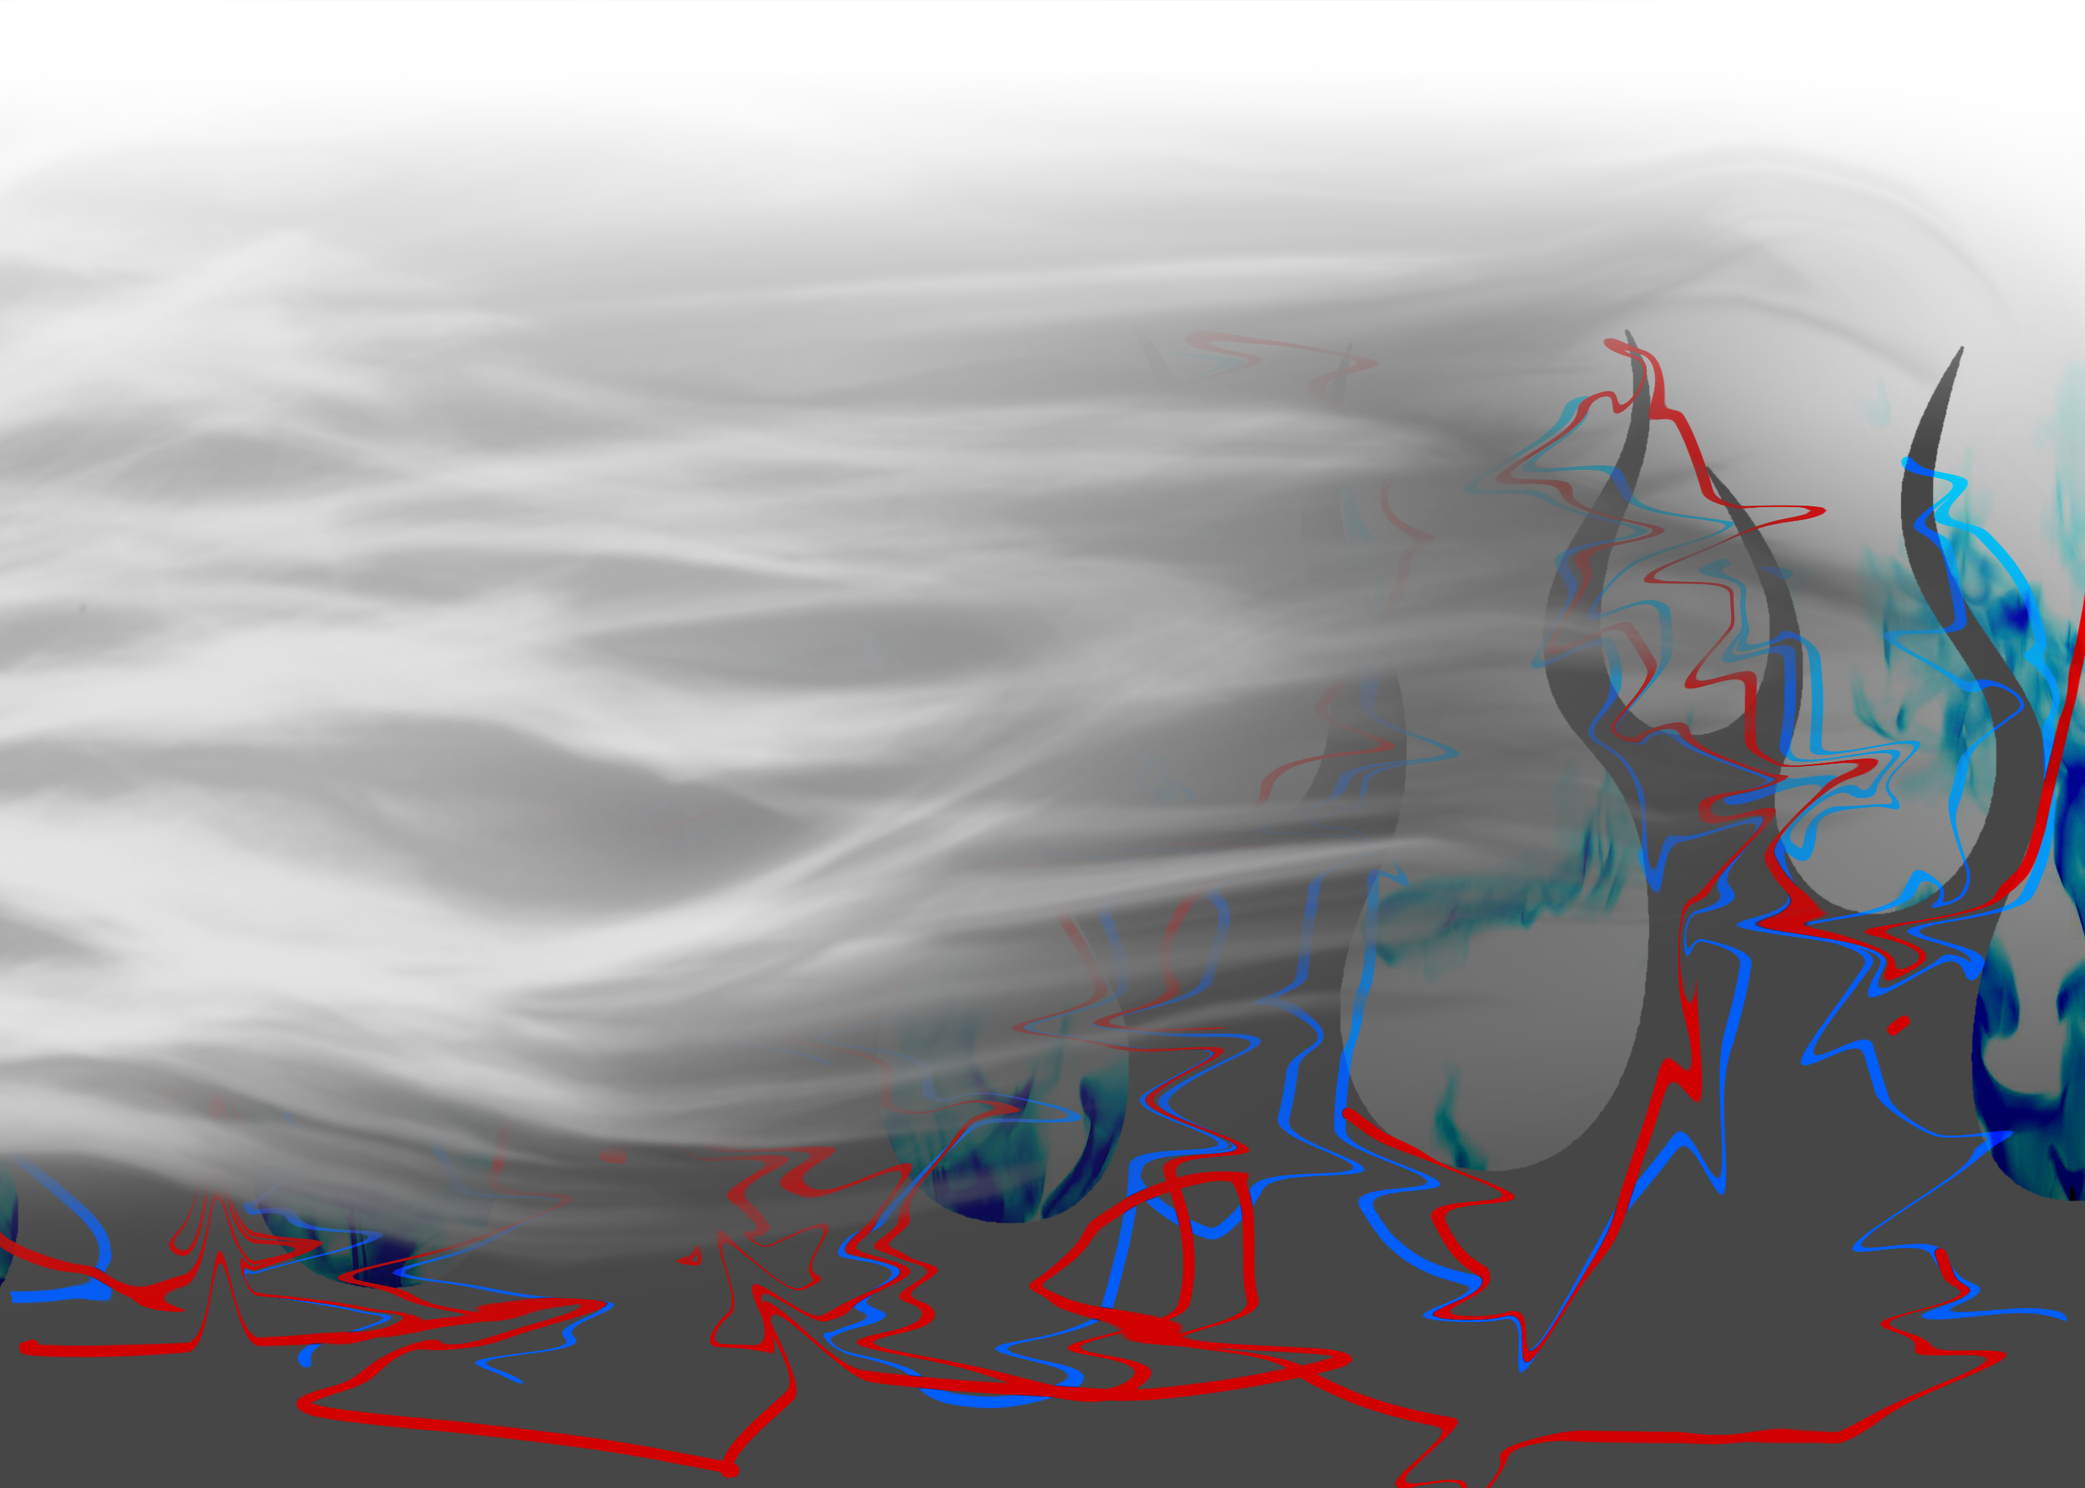
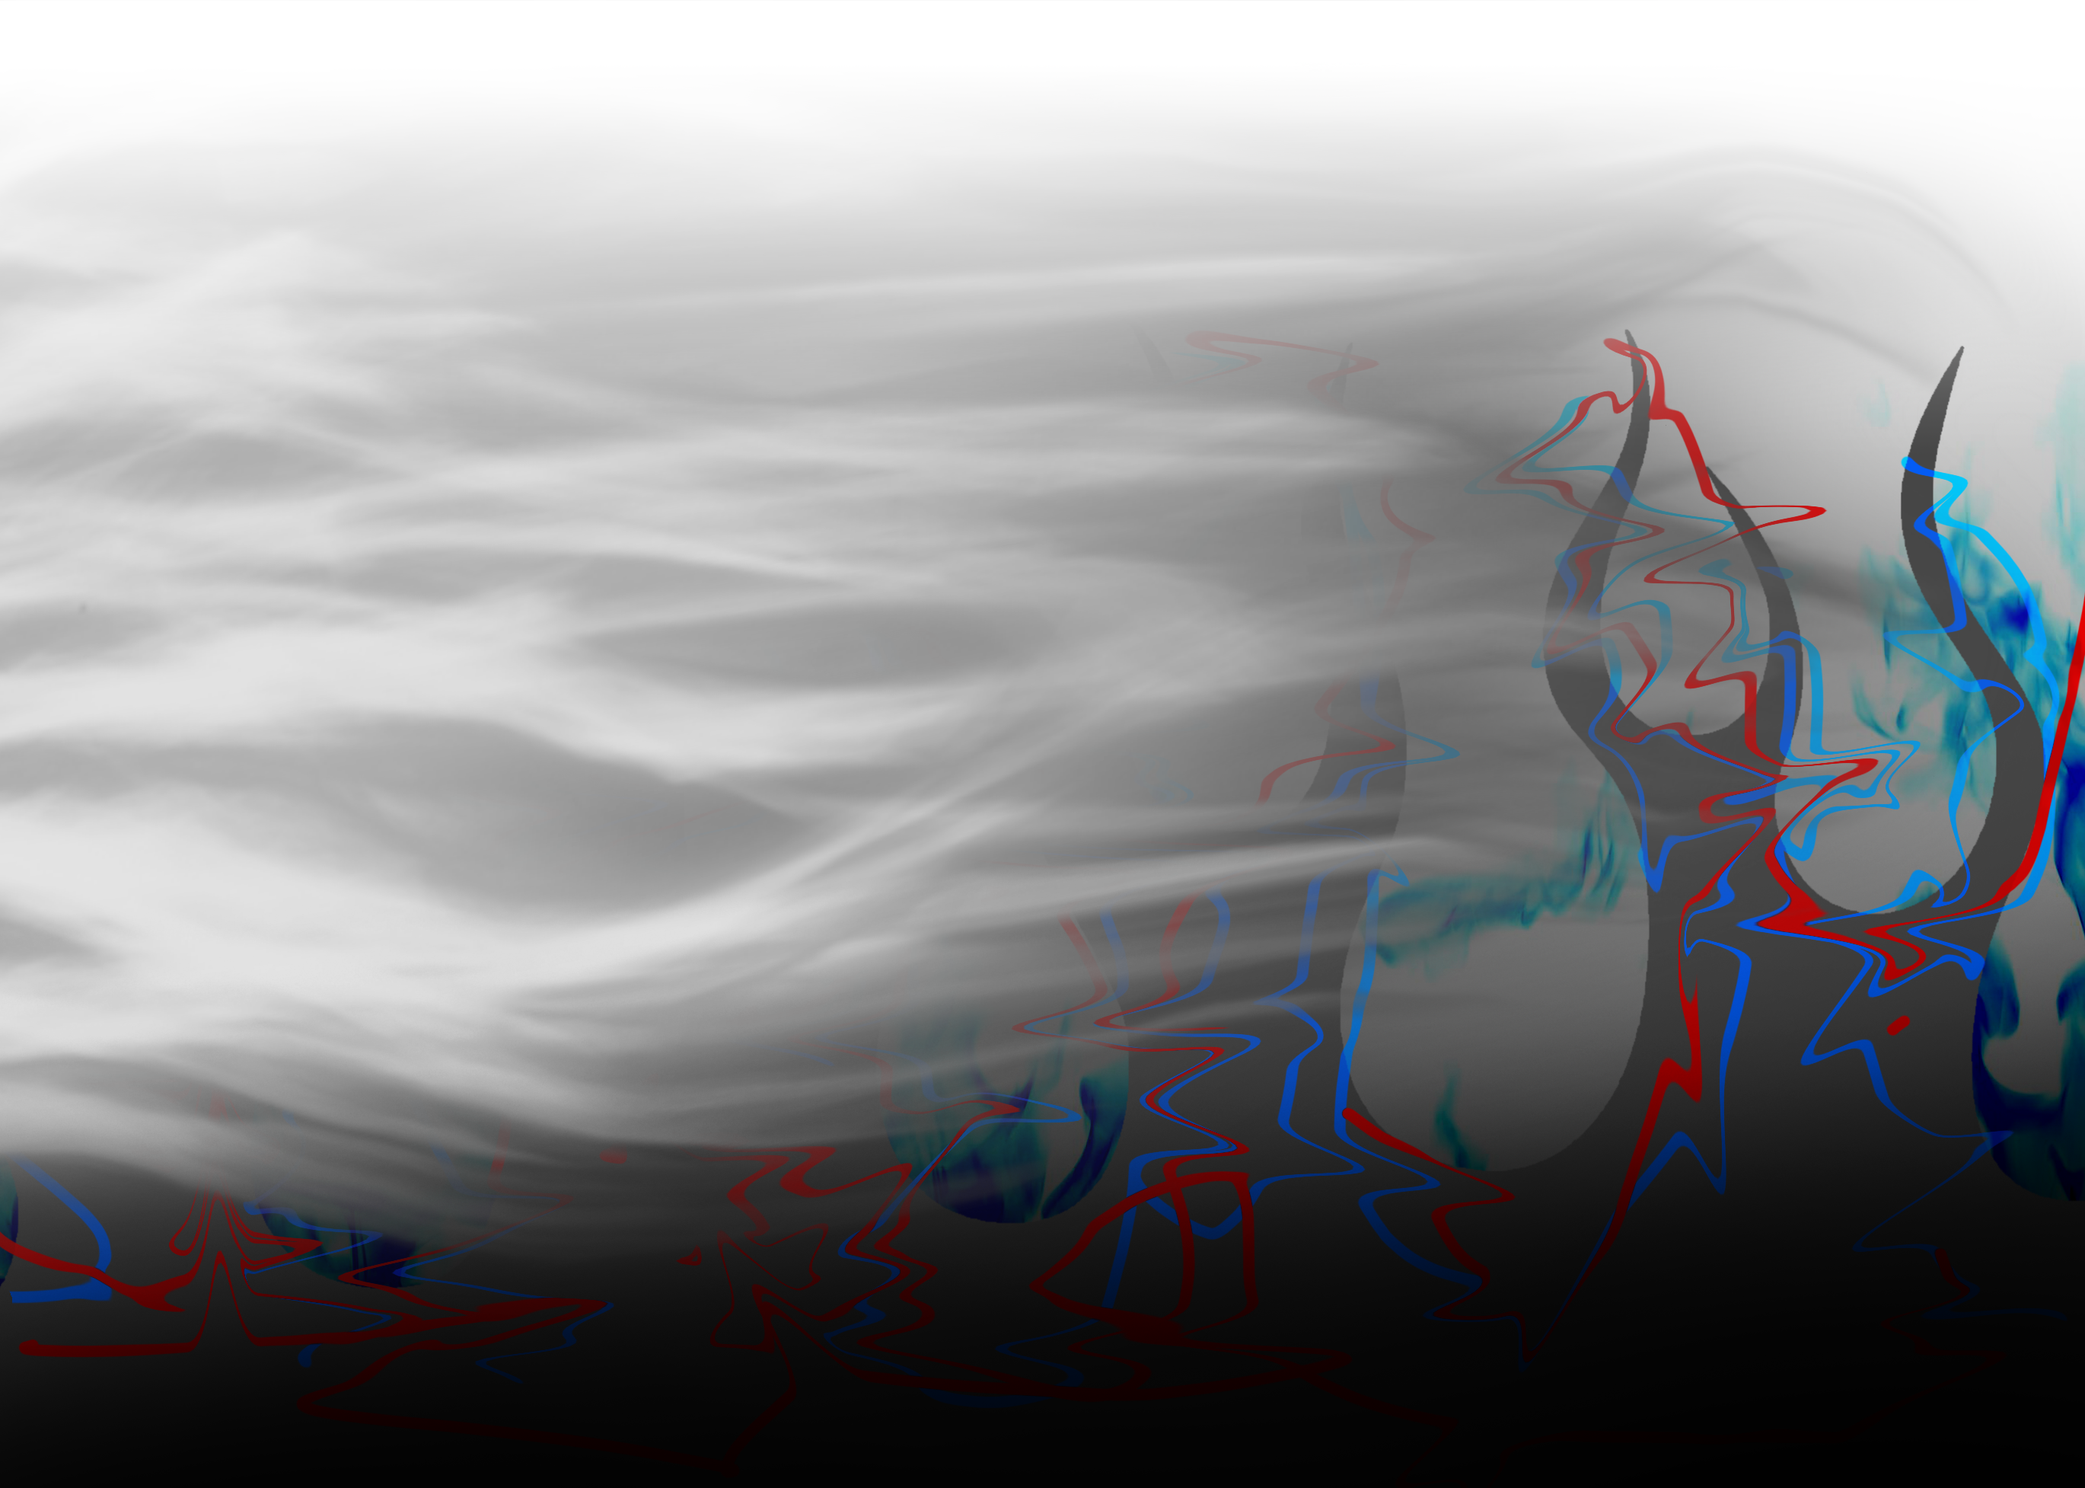
Tiers load + footer done

Changed region(s): [[0.0, 0.5931, 1.0, 1.0]]

diff --git a/client/src/components/FooterComp.vue b/client/src/components/FooterComp.vue
@@ -18,11 +18,11 @@
     </ul>
 
     <ul class="footer-menu">
-  <li><router-link to="/blog/about-us">About Us</router-link></li>
-  <li><router-link to="/blog/meet-our-expert-team">Meet Our Expert Team</router-link></li>
+  <li><router-link to="/blog/about">Who are We?</router-link></li>
+  <li><router-link to="/blog/about">Meet Our Expert Team</router-link></li>
   <li><router-link to="/blog/client-testimonials">Read Client Testimonials</router-link></li>
   <li><router-link to="/blog/check-out-our-blog">Check Out Our Blog</router-link></li>
-  <li><router-link to="/blog/contact-support-team">Contact Our Support Team</router-link></li>
+  <li><router-link to="/contact">Contact Our Support Team</router-link></li>
   <li><router-link to="/blog/services">Services</router-link></li>
   <li><router-link to="/blog/cybersecurity-solutions">Cybersecurity Solutions</router-link></li>
   <li><router-link to="/blog/data-privacy-consulting">Data Privacy Consulting</router-link></li>
@@ -53,20 +53,26 @@
         <div>
       <router-link to="/">
         <img alt="Logo" src=".././assets/Logo.png" class="max-w-xs logo"/>
-      </router-link>      <h3 class="text-lg font-bold">Empower Your Cyber Defense.</h3><br></div><div style="display: flex;
+      </router-link>      <h3 class="text-lg font-bold">Empower Your Cyber Defense ☻</h3><br></div><div style="display: flex;
     flex-direction: column;
     align-items: flex-end;">
 
       <h3 class="text-lg font-bold">CONTACT US</h3>
-      <p>E-Mail: info@progressor.cx</p>
+      <p>E-Mail: progressor@progressor.cx</p>
       <p class="footer-text">© 2023 Progressor.cx. All rights reserved.</p>
       <div class="contact"></div>
       <div class="social">
-        <h3 class="text-lg font-bold">CONNECT WITH US</h3>
+        <h3 class="text-lg font-bold"  style="
+    text-align: end;
+
+">CONNECT WITH US</h3>
         <p>
           Follow us on social media
         </p>
-        <div class="social-icons">
+        <div class="social-icons" style="
+    text-align: end;
+
+">
           <!-- Use 'fa-3x' class to make the icons 3 times larger -->
           <a href="#" target="_blank" rel="noopener noreferrer" class="social-icon">
             <i class="fab fa-instagram fa-3x"></i>
@@ -150,7 +156,7 @@
 
 .menuCatch {
     display: flex;
-    background: #464646;
+    background: #000000;
     justify-content: center;
  
     flex-direction: row;

diff --git a/client/src/views/NewHomeLanding.vue b/client/src/views/NewHomeLanding.vue
@@ -16,7 +16,7 @@
     padding: 15px;
     border-radius: 50px;text-align: center;
     margin-bottom: 20px;
-"><router-link to="/updates">See more here, about our lastest updates.</router-link></div>
+"><router-link to="/updates" style="color:rgb(27, 10, 185)">View Lastest updates</router-link></div>
 
 
 <h2 class="font-semibold text-white font-semiboldcxs " style="text-align: center;">Companies just trust Progressor.cx</h2>
@@ -107,7 +107,7 @@
     <p class="my-4">
       Elevate your organization's security posture with our advanced AI Chatbot Cyber Security SaaS. Explore cutting-edge solutions and protect your digital assets today.
     </p>
-    <button class="custom-button"  @click="$router.push('/pricing')">
+    <button class="custom-button" style="background-color: blueviolet;"  @click="$router.push('/pricing')">
       Learn More
     </button>
   </div>
@@ -120,7 +120,7 @@
     <p class="my-4">
       Elevate your organization's security posture with our advanced AI Chatbot Cyber Security SaaS. Explore cutting-edge solutions and protect your digital assets today.
     </p>
-    <button class="custom-button"  @click="$router.push('/pricing')">
+    <button class="custom-button" style="background-color: rgb(226, 43, 150);"  @click="$router.push('/pricing')">
       Learn More
     </button>
   </div>
@@ -167,7 +167,7 @@
       Progressor.cx is highly recommended by over 85% of cyber experts for its user-friendly interface and the substantial time savings it provides in Cyber Security practices.
     </p>
     <button class="custom-button" @click="$router.push('/home2')">
-        Book a demo
+       Learn about Progressor Plus+
 
 
 
@@ -220,6 +220,11 @@ border-radius: 10px;
   .ewq {
     
   }
+  .bg-gray-100  {
+    display: flex;
+    flex-direction: column;
+    align-items: center;
+  }
   
   .bg_img {
     background-image: url('@/assets/main225.png'); 
@@ -251,7 +256,7 @@ border-radius: 10px;
 
   .what_is_box {
     padding: 20px;
-    background: #c2c2c2;
+    background: #c2c2c226;
     margin-top: 20px;
     border-radius: 10px;
   }
@@ -273,9 +278,9 @@ border-radius: 10px;
     font-size: 20px;
   }
   .p-4ee {
-    background: #ececec;
+    background: #ececec28;
     padding: 20px;
-    border: 1px solid black;
+
     margin-top: 20px;
     border-radius: 10px;
   }

diff --git a/client/src/views/WelcomeBack.vue b/client/src/views/WelcomeBack.vue
@@ -12,10 +12,10 @@
  
  <label for="firstLogin ">We see its your First Login: Welcome to Progressor! We gave you 1000 tokens for free to get started!!!</label>>  <router-link to="/chat2">Try now!</router-link>
 </div>
-<button @click="$root.tierData = '0'">0</button>
+<!-- <button @click="$root.tierData = '0'">0</button>
 <button @click="$root.tierData = '1'">1</button>
 <button @click="$root.tierData = '2'">2</button>
-<button @click="$root.tierData = '3'">3</button>
+<button @click="$root.tierData = '3'">3</button> -->
 <div class="subscription-container" v-if="$root.tierData == '0'" style="background-color: #dadada; padding: 20px; textAlign: center, color: 'white' }">
     <h1 style="font-size: 24px; margin-bottom: 10px;">NO PLAN!</h1>
     <router-link to="/chat2" style="text-decoration: underline; color: rgb(0, 81, 255);">If you have coins, you can still Chat</router-link>
@@ -111,6 +111,7 @@ export default {
   },
   methods: {
     async logout() {
+      this.$root.logout();
   try {
     // Check if the user is logged in and has a UID
     if (this.user && this.user.uid) {
@@ -123,7 +124,7 @@ export default {
 
 
       // Get the UID of the logged-in user
-      const uid = this.user.uid;
+      const uid = this.$root.user.uid;
 
       // Increment login times in the database
       const db = getFirestore();
@@ -144,7 +145,7 @@ export default {
         // Update the local login times property
      
         this.loginTimes = updatedLoginTimes;
-        this.$root.logout();
+       
         // ... existing login success logic ...
       } else {
         // Handle the case where user data is not available
@@ -248,7 +249,7 @@ this.updateSubscription();
 <style scoped>
 .subscription-container {
   max-width: 800px;
-  margin: 50px auto;
+  margin: 0px auto;
   padding: 20px;
   background-color: #f0f0f0;
   border-radius: 10px;

diff --git a/client/src/App.vue b/client/src/App.vue
@@ -2,7 +2,7 @@
 <!-- MAIN -->
 <template>
     <div id="master">
-      <header v-if="$route.path !== '/chat2'" class="header">
+      <header v-if="$route.path !== '/chat2'" class="header" :style="{ boxShadow: (menuOpen2 === false || menuOpen === false) ? '0px 2px 4px rgba(0, 0, 0, 0.1)' : 'none' }">
         
         <div class="gradient-header2 wave-bottom" style="z-index: 99999">
          
@@ -49,6 +49,7 @@
           <button   v-if="!user" @click="$router.push('/login'), closeMenu" class="actionBTN">Log in</button>
           <button v-if="!user" @click="$router.push('/signup'), closeMenu" class="actionBTN2">Sign up</button>
         <a v-if="user" style="font-size: 19px;">Tokens: {{ userTokens }}</a>
+
           <button v-if="user" @click="$router.push('/welcome'), closeMenu" class="actionBTN2">Account</button>
         
         </div>
@@ -196,7 +197,7 @@
           />
           <a v-if="user" style="background-color: rgb(0, 0, 0);font-size: 19px;color:white; margin-left: 40px;">Tokens: {{ userTokens }}</a> 
         
-     
+          <a v-if="$root.tokens_bypass == true" style="font-size: 19px;background-color: rgb(0, 0, 0);font-size: 19px;color:white; margin-left: 40px;">Tokens: <a style="font-size: 20px;">∞</a></a>
         
           <router-link
             to="/pricing"
@@ -241,7 +242,7 @@ import { getFirestore, getDoc, doc, setDoc } from 'firebase/firestore';
       return {
         api_prefix: `http://${location.hostname}:3001`,
         // CHANGE IN PROD ^^^^^^^^^^^^^^^^^^^^^^^^
-
+        tokens_bypass: false,
 
         userTokens: 0,
         user: null,
@@ -392,7 +393,7 @@ getDoc(userDocRef)
     color: #fff;
     margin: 0;
     margin-bottom: 15px;
-    text-shadow: 2px 2px 4px rgba(0, 0, 0, 0.6);
+
   }
   
   /* Add bubbles */

diff --git a/client/src/views/PricingPage.vue b/client/src/views/PricingPage.vue
@@ -41,12 +41,7 @@ Introducing our Special Launch Offer - $1 for 10K!</h2>
   </div>
       <!-- Your existing code here -->
   <h1>Enjoy straightforward pricing that suits any scale seamlessly.</h1>
-  <h2>If Progressor isn't to your liking, we offer hassle-free refunds at any time.</h2>   <br><router-link class="jlinkers" to="/tokens">
 
-    <button class="bg-blue-500 text-white px-4 py-2 rounded hover:bg-blue-600 mt-4">
-     How do tokens work?
-    </button>
-</router-link>    
       <!-- Pricing Cards -->
       <div class="pricing-cards">
   <!-- Card 1 -->
@@ -117,7 +112,7 @@ Introducing our Special Launch Offer - $1 for 10K!</h2>
 
         <button
           v-if="!$root.user"
-          style="margin-bottom: 40px; font: 1em sans-serif; background: linear-gradient(270deg, #ff1313 31%, #5c85ff);"
+          style="margin-bottom: 40px; font: 1em sans-serif; background: linear-gradient(270deg, #131212 31%, #6a6a6d);"
           class="bg-blue-500 text-white px-4 py-2 rounded hover:bg-blue-600 mt-4"
           @click="$router.push('/login')"
         >
@@ -151,7 +146,12 @@ Introducing our Special Launch Offer - $1 for 10K!</h2>
 </div>
 <router-link class="jlinkers" to="/pricing2">
 
-</router-link>     
+</router-link>       <h2>If Progressor isn't to your liking, we offer hassle-free refunds at any time.</h2>   <router-link class="jlinkers" to="/tokens">
+
+<button class="bg-blue-500 text-white px-4 py-2 rounded hover:bg-blue-600 mt-4">
+ How do tokens work?
+</button>
+</router-link>    
 <p>Your Satisfaction is 100% Guaranteed or Your Money Back</p>
   <FooterComp /> <!-- Your existing code here -->
 </div>

diff --git a/client/src/views/LoginScreen.vue b/client/src/views/LoginScreen.vue
@@ -1,6 +1,7 @@
 <template>
   <div class="centered-content">
     <h1>Log In</h1>
+    
     <div v-if="!user">
       <form @submit.prevent="emailPasswordSignIn">
         <input type="email" v-model="email" placeholder="Email" required>
@@ -12,17 +13,18 @@
     <button v-if="user" @click="logout">Log Out</button>
 OR
     <button v-if="!user" @click="loginWithGoogleSignIn"><img src="@/assets/google.png"></button>
-
     <!-- Display success and error messages -->
     <p v-if="successMessage" style="color: green">{{ successMessage }}</p>
     <p v-if="errorMessage" style="color: red">{{ errorMessage }}</p>
+   
   </div>
+
 </template>
 
 <script>
 import { getAuth, signInWithEmailAndPassword, signOut, GoogleAuthProvider, signInWithPopup } from 'firebase/auth';
 
-
+import FooterComp from '@/components/FooterComp.vue';
 export default {
   name: "LoginView",
   data() {
@@ -53,7 +55,9 @@ export default {
         this.errorMessage = 'Error signing in with email and password: ' + error.message;
       }
     },
-
+    components: {
+    FooterComp,
+  },
     async loginWithGoogleSignIn() {
       const auth = getAuth();
       const provider = new GoogleAuthProvider();

diff --git a/client/src/views/BlogView.vue b/client/src/views/BlogView.vue
@@ -9,14 +9,14 @@
     </div>
     <div class="main" v-else>
       <br v-if="this.$cookies.isKey('admin')">
-      <button v-if="this.$cookies.isKey('admin')" @click="$router.push('/admin')" style="border:1px solid black;margin: 20px;margin-top: 0px;
+      <button v-if="this.$cookies.isKey('admin')" @click="$router.push('/admin')" style="border:1px solid black;margin: 20px;margin-top: 20px;
         background: linear-gradient(45deg, red, orange);">goto Admin</button>
-      <h1 class="blog-title" v-if="blog">{{ blog.title }}</h1>
+      <h1 class="blog-title" v-if="blog" style="margin-top: 10px;">{{ blog.title }}</h1>
       <a v-else><br>Sorry this blog has either been removed or deleted No blog found. Please</a>
       <p v-if="blog" class="blog-content" v-html="blog.content"></p>
       <!-- <br> -->
       <!-- <p v-if="blog" class="blog-content">{{ blog.read_count }} Views</p>
-      <router-link :to="'/all_blogs'">View all Blogs</router-link><br> -->
+      <router-link :to="'/all_blogs'">View all Blogs</router-link> --><br>
       <router-link :to="'/'">Back to Home Page</router-link>
       <div></div>
       <br>

diff --git a/client/src/views/NewChatView.vue b/client/src/views/NewChatView.vue
@@ -136,7 +136,7 @@ export default {
         return;
       }
 
-      if (this.messageCost > this.$root.userTokens) {
+      if (this.messageCost > this.$root.userTokens && this.$root.tokens_bypass == false) {
     // User doesn't have enough tokens
     this.outOfTokens = true;
     return;
@@ -145,6 +145,9 @@ export default {
       this.conversationHistory.unshift({ content: this.inputMessage, type: 'sent', id: this.conversationHistory.length });
 
  
+      if (this.$root.tokens_bypass == false) {
+
+
       const db = getFirestore();
       const userDocRef = doc(db, 'users', this.$root.user.uid);
 
@@ -198,7 +201,7 @@ export default {
     });
     
       // Reset the messageCost
-   
+    }
 
       // Show the token subtracted popup (if needed)
       // this.showTokenSubtractedPopup = true;

diff --git a/client/src/router.js b/client/src/router.js
@@ -9,8 +9,9 @@ import TermsOfServiceView from './views/TermsOfServiceView.vue'
 import PrivacyPolicyView from './views/PrivacyPolicyView.vue'
 import LearnMore from './views/LearnMore.vue'
 import NewLanding from './views/NewLanding.vue'
-
+import yoobeeTest from './views/yoobeeTest.vue'
 import ContactView from './views/ContactView.vue'
+
 
 import FaqView from './views/FaqView.vue'
 import CyberLandscape from './views/CyberLandscape.vue'
@@ -34,6 +35,12 @@ const routes = [
       name: 'NewHomeLanding',
       component: NewHomeLanding,
     },
+    {
+      path: '/yoobee',
+      name: 'yoobeeTest',
+      component: yoobeeTest,
+    },
+ 
     {
       path: '/bonus_deal',
       name: 'LaunchingSpeacialPage',

diff --git a/client/src/views/TermsOfServiceView.vue b/client/src/views/TermsOfServiceView.vue
@@ -1,6 +1,6 @@
 <template>
     <div style="max-width: 800px; margin: 0 auto; padding: 20px;">
-      <h1 style="font-size: 36px; margin-bottom: 20px;">Terms of Service</h1>
+      <h1 style="font-size: 36px; margin-bottom: 20px; margin-top: 0px;">Terms of Service</h1>
       <p style="font-size: 16px; margin-bottom: 30px;">
         Join our innovative AI SaaS team and embark on a journey of cutting-edge technology and boundless opportunities. We are always seeking talented individuals to join our visionary community.
       </p>

diff --git a/client/src/views/yoobeeTest.vue b/client/src/views/yoobeeTest.vue
@@ -1,0 +1,27 @@
+<template>
+  <div>
+    <!-- Your component content here -->
+  </div>
+</template>
+
+<script>
+export default {
+  mounted() {
+    // Check if the user is authenticated (you need to implement this logic)
+
+
+    // If the user is authenticated, redirect to the chat screen
+ 
+
+      this.$router.push('/chat2');
+      this.$root.userTokens = 9999
+      this.$root.tokens_bypass = true;
+      this.$root.user = true
+   
+  },
+};
+</script>
+
+<style>
+/* Your component styles here */
+</style>
